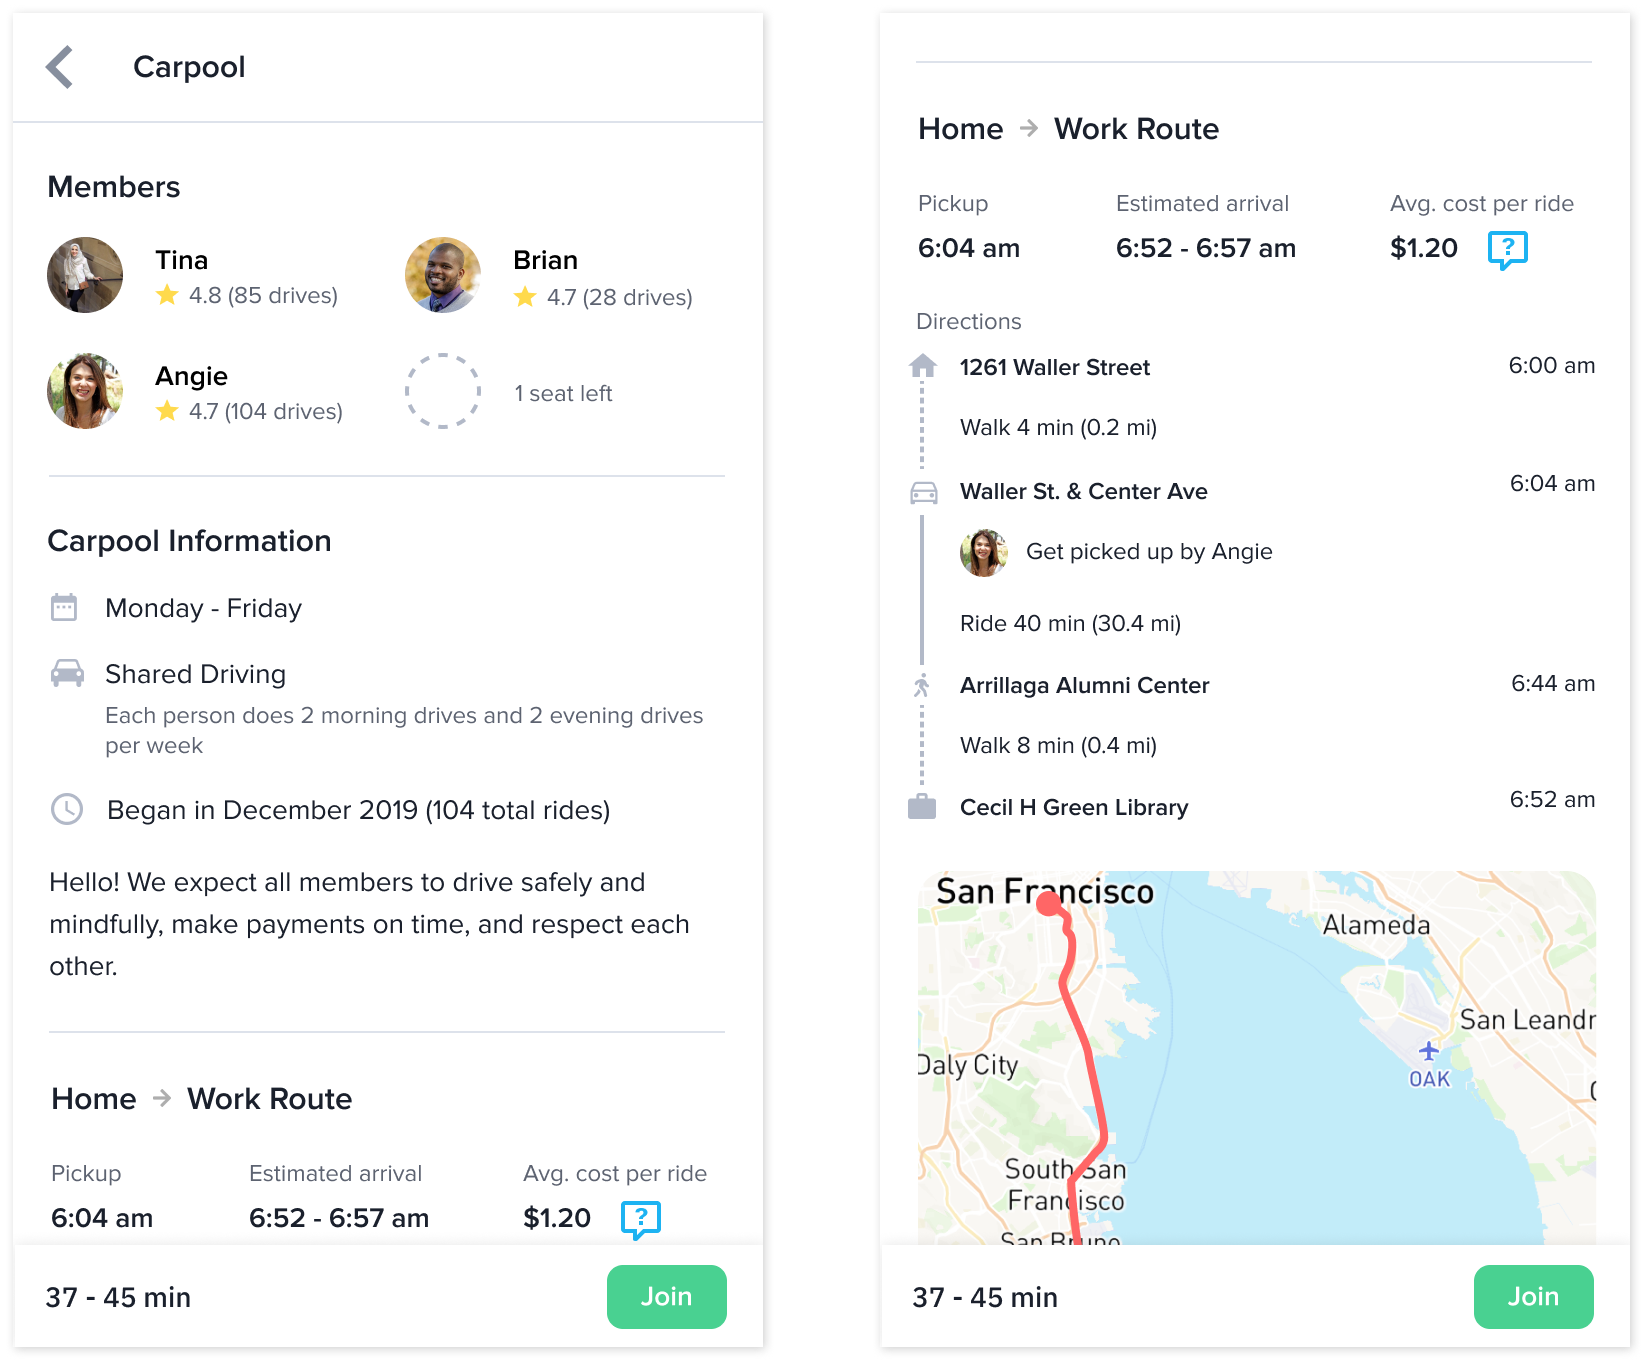
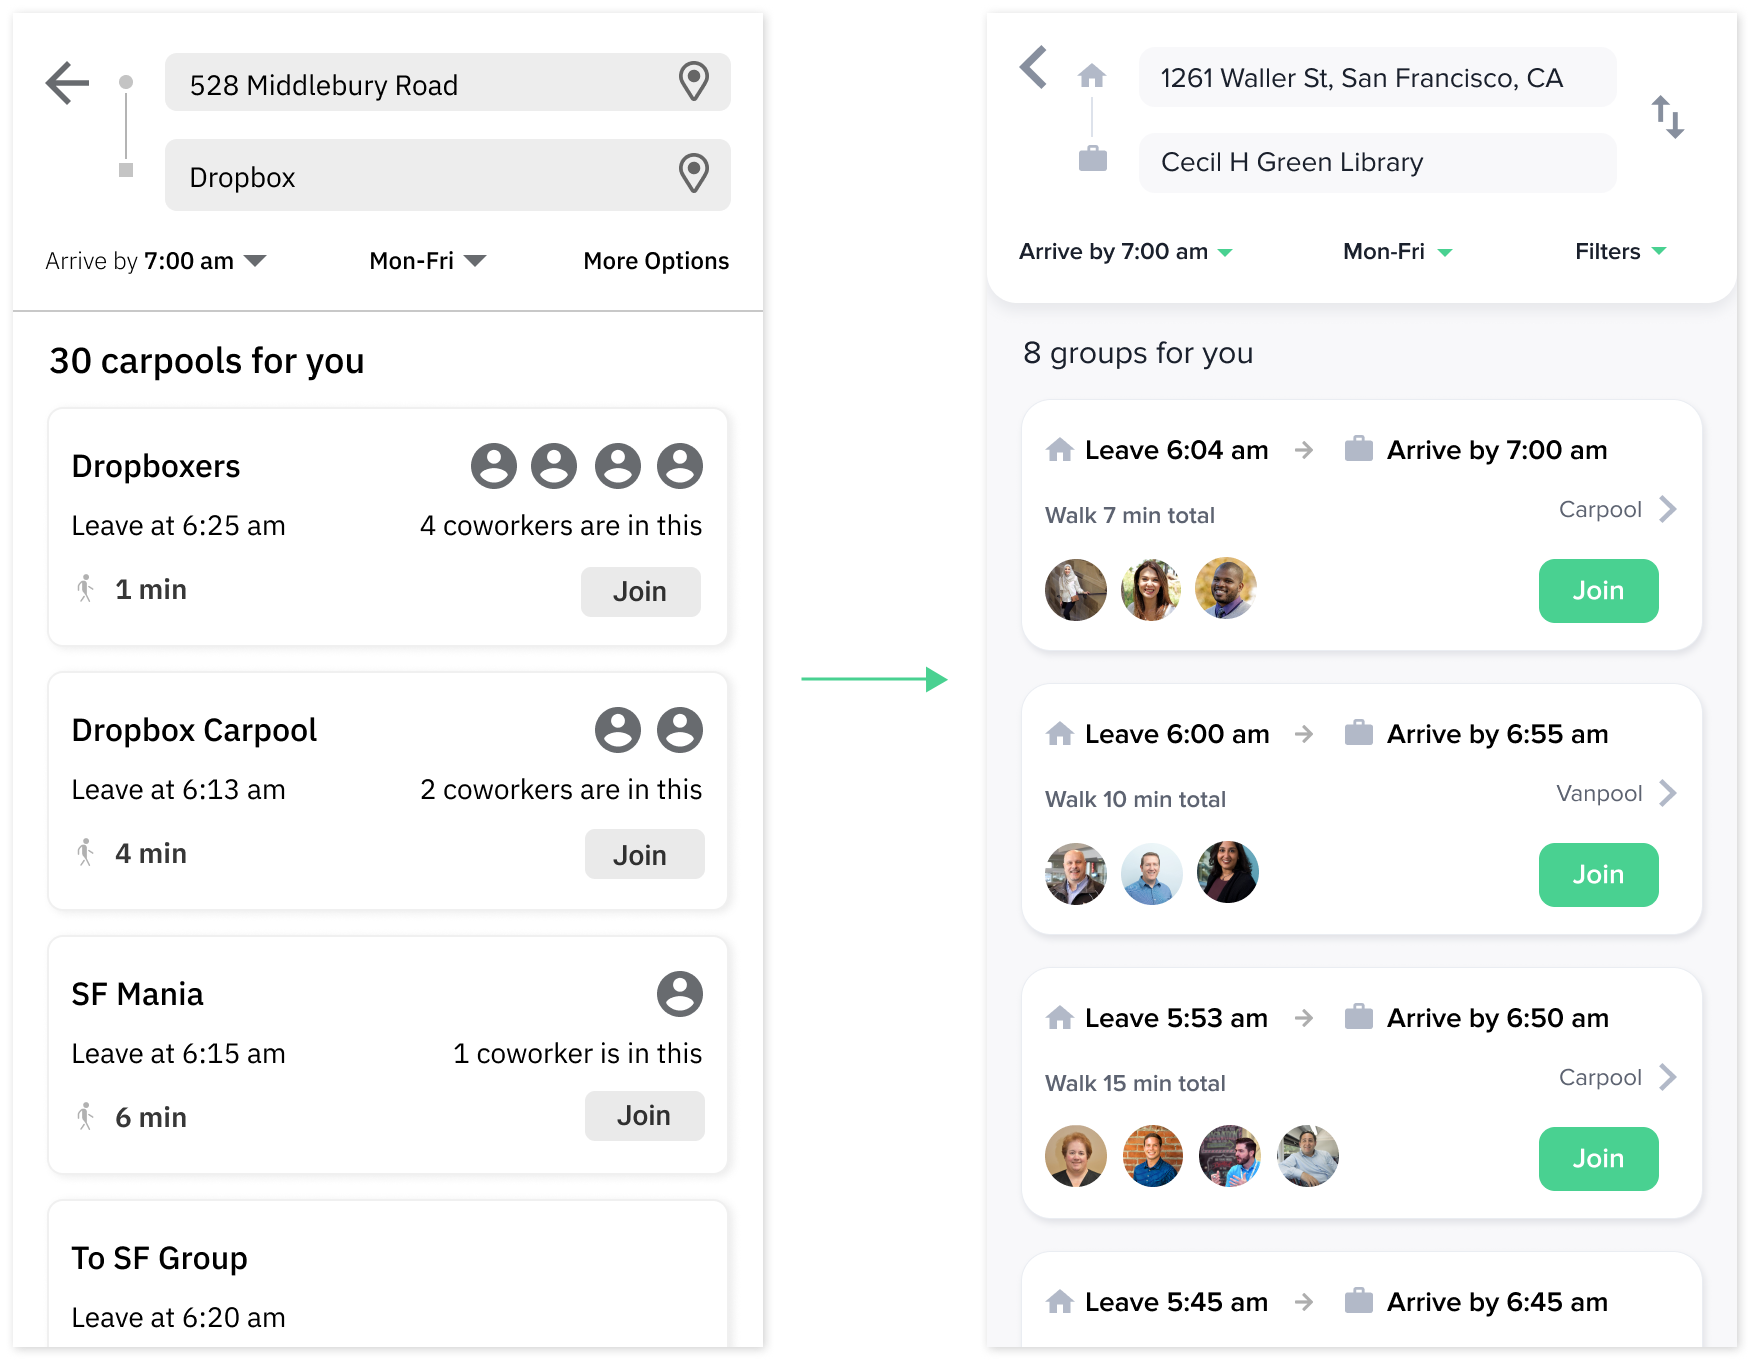
Add Journie before and after shots

diff --git a/src/components/Journie.jsx b/src/components/Journie.jsx
@@ -19,6 +19,10 @@ import Onboard from './images/journie-onboard.gif';
 import Info from './images/journie-info.gif';
 import Join from './images/journie-join.gif';
 import Morning from './images/journie-morning.gif';
+import OnboardIteration from './images/journie-onboard.png';
+import InfoIteration from './images/journie-info.png';
+import CalendarIteration from './images/journie-calendar.png';
+import MorningIteration from './images/journie-morning.png';
 
 
 function Journie() {
@@ -181,8 +185,9 @@ function Journie() {
         With the feedback from our users, we incorporated many changes into the app.
       </p>
       <h4>Carpool Recommendations</h4>
+      <img src={OnboardIteration} />
       <ul>
-        <li>Users didn’t realize they could tap on a carpool’s card to view more information about it, so we added a small arrow to the right of the card to suggest more details were available.
+        <li>We wanted the cards to display the most important information that would help users choose between recommendations. Knowing the estimated time of arrival helped users to choose between carpools, so we added this information to the cards. Knowing the names of each carpool did not, so we removed them.
 </li>
         <li>
           We added Home and Work icons next to the location fields to clarify what locations to input.
@@ -190,20 +195,23 @@ function Journie() {
         <li>The meaning of a carpool’s leave time was unclear to users. We re-used the same Home and Work icons to more clearly indicate the time to leave home and estimated time of arrival.</li>
         </ul>
       <h4>Carpool Information</h4>
+      <img src={InfoIteration} />
       <ul>
         <li>We added member ratings because users were worried about joining a group of “bad people.”
 </li>
         <li>We moved the map to the bottom of the screen because the exact route was less immediately useful to users than a carpool’s information and logistics.</li>
       </ul>
       <h4>Calendar</h4>
+      <img src={CalendarIteration} />
       <ul>
         <li>A user thought they could add more than 2 rides in one day. We clarified that each day has room for only one morning carpool and one night carpool by adding sun and moon icons. 
 </li>
         <li>
-        The next user had no idea what was going on in this screen. The view was not familiar to them through an existing pattern, and it departed from previous screens. We decided to copy over the cards from the carpool listings to help the user recognize their function. As a result, further users were all able to understand what was happening.
+        The next user had no idea what was going on in the calendar. The view was not familiar to them through an existing pattern, and it departed from previous screens. We decided to copy over the cards from the carpool listings to help the user recognize their function. As a result, further users were all able to understand what was happening.
 </li>
         </ul>
         <h4>Live Carpool Information</h4>
+        <img src={MorningIteration} />
       <ul>
         <li>Users didn’t find the live location of the car useful or necessary, so we took it out.
 </li>
@@ -215,9 +223,9 @@ function Journie() {
 <li>We differentiated the two green buttons more so users wouldn’t accidentally tap the wrong one in a rush.</li>
         </ul>
 
-      <h3>Mood Board & Style Tile</h3>
+      {/* <h3>Mood Board & Style Tile</h3>
       <p>I created a mood board and style tile for our high-fidelity design.</p>
-      <img src={StyleTile} className="shadow" />
+      <img src={StyleTile} className="shadow" /> */}
 
       <h2>Final Design</h2>
       <div className="image-left">
